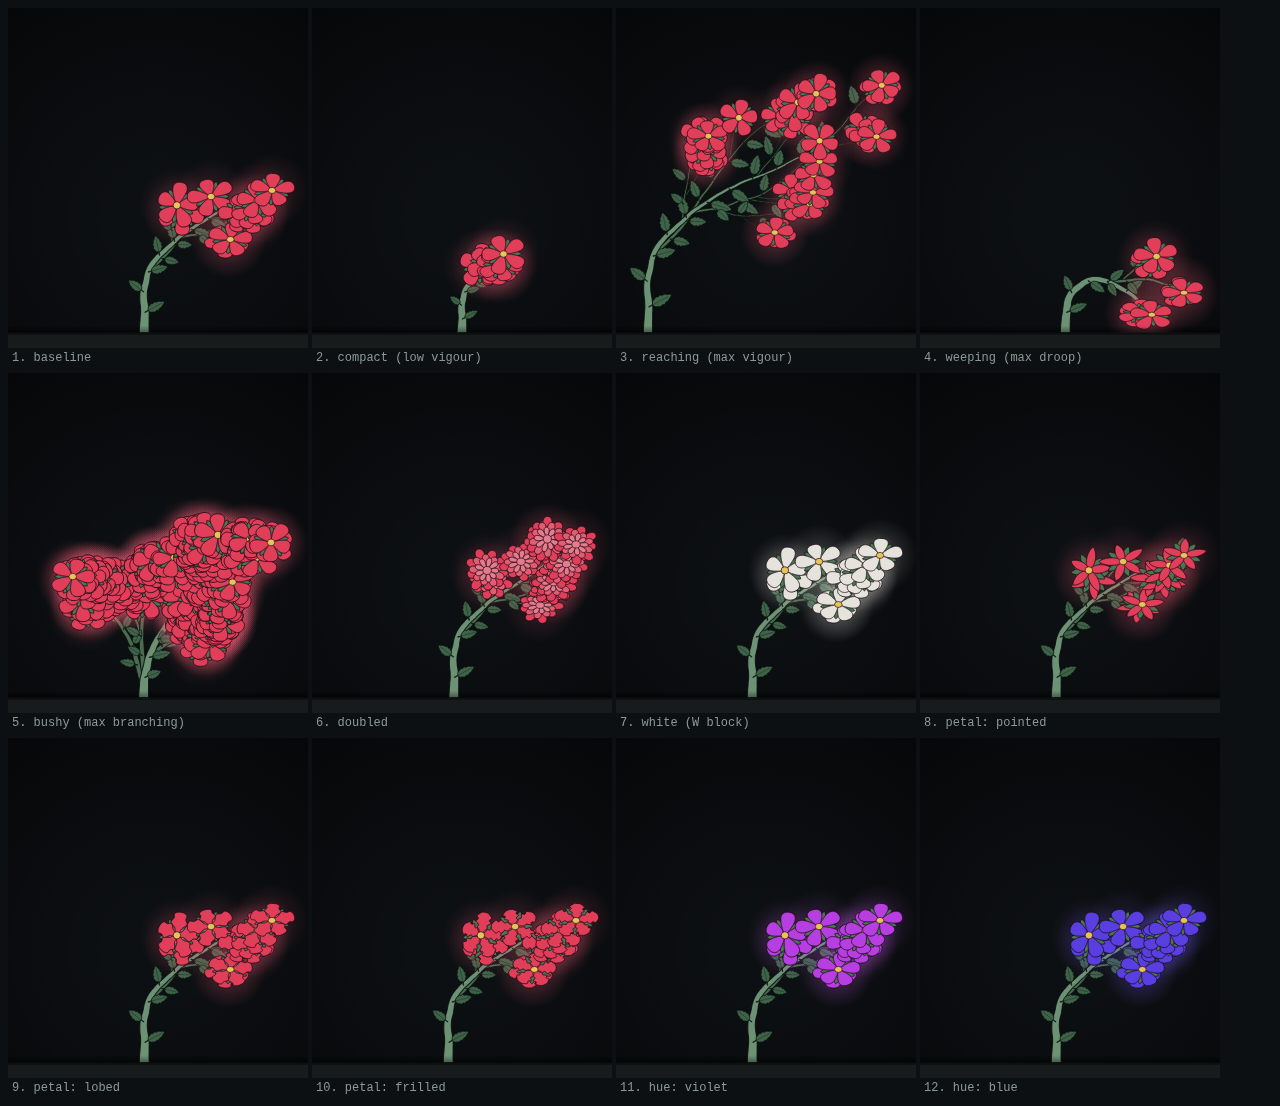
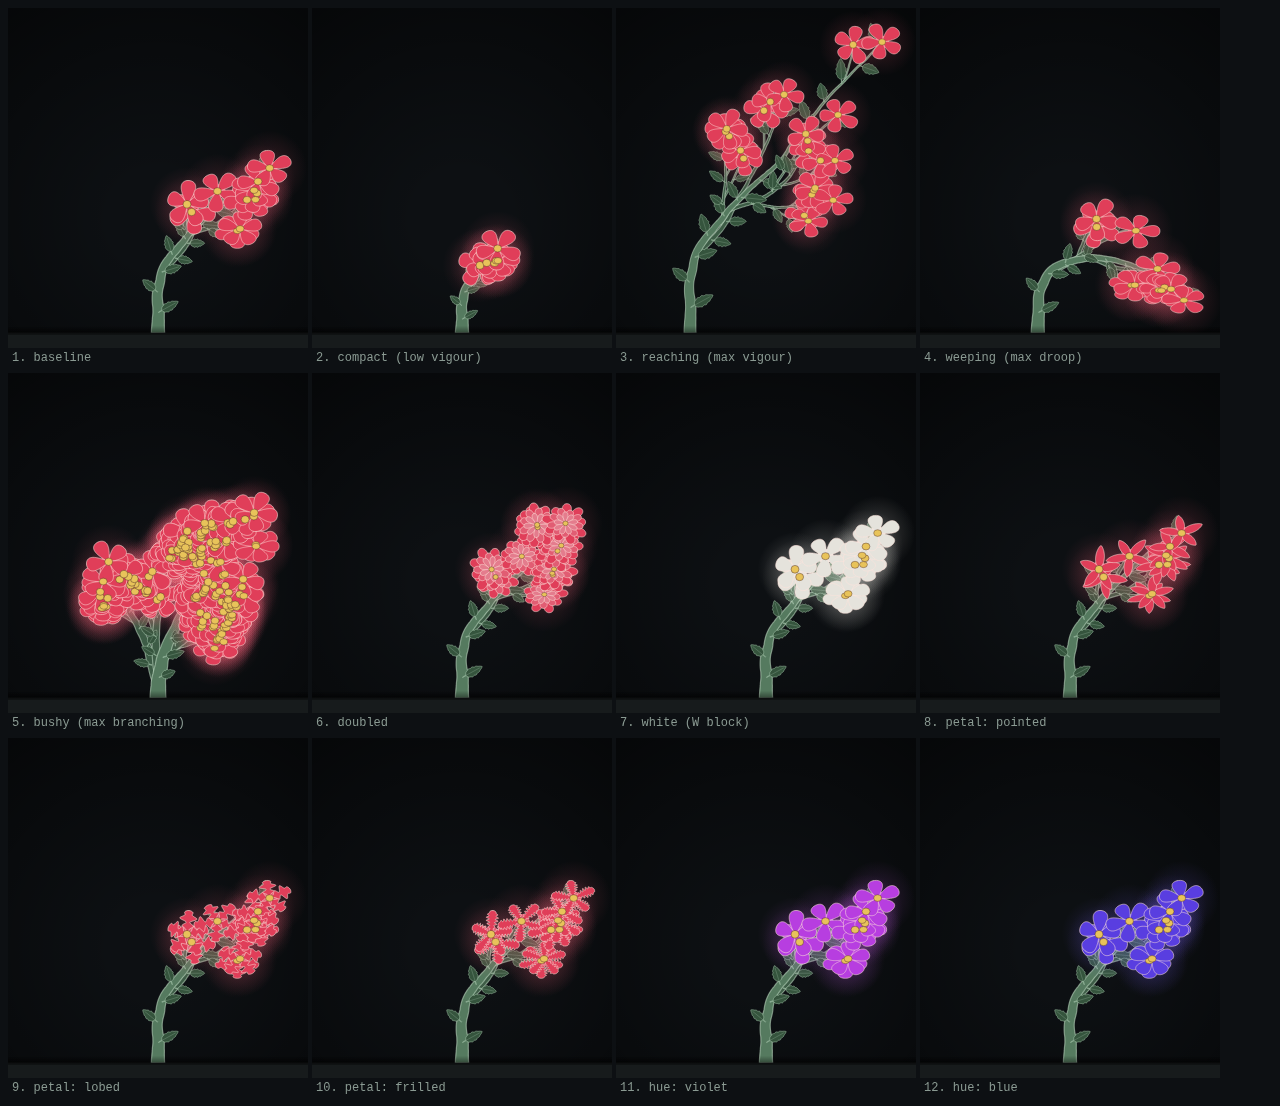
fix(render): light-rim linework — resolve the dark-ink/dark-ground contradiction
Third consecutive 0/5 verdict traced to a contradiction in the art direction
itself, not to a missing feature. "Ink line-art on a dark ground" cannot hold if
the ink is dark: the round-3 critique measured a stem scanline as
ground [12,15,17] -> fill [109,145,117] -> [24,36,28] -> ground, proving the
contour WAS rendering, at 1px, and was invisible anyway. Round 3's response had
been to make it darker and more opaque, i.e. exactly the wrong direction.

Resolution (user's call): keep the dark ground, make the line LIGHT. Line art on
a dark surface works the way chalk does. stemRim/leafRim/petalRim are now pale;
a dark line survives only for petal-on-petal divisions, where the surface behind
it is a lit petal rather than the ground. A test pins the rule: every silhouette
rim must be lighter than the ground.

Also reverted or fixed, all from measured critique findings:

- SEPALS ARE NO LONGER DRAWN. Adding a calyx to fill inter-petal gaps backfired:
  on a front-facing flower sepals are hidden in reality, so drawing them wedged
  hard green blades exactly where petal overlap should be and ENTRENCHED the
  pinwheel read it was meant to cure.
- CENTRES DRAWN IN A THIRD PASS, after every petal in the plant. Drawing each
  bloom's centre right after its own petals let the next bloom bury it — measured
  4 visible centres against ~13 bloom-sized units, so two thirds of flowers read
  as centreless petal piles.
- TRUNK CARRIES LOAD: initial width scales with branchiness (pipe-model
[…]

diff --git a/src/render/stage.ts b/src/render/stage.ts
@@ -3,19 +3,33 @@ import { buildOutline, fillOutline, groupChains, smoothChain } from "./strokes";
 import { leafMidrib, leafPath } from "./leaves";
 import { fillPetal, petalColor, petalGlow, petalPath } from "./petals";
 
+/**
+ * Silhouette lines are LIGHT, not dark.
+ *
+ * "Ink line-art on a dark ground" is self-contradictory if the ink is dark: a near-black
+ * contour on a near-black ground is invisible by construction. Measured proof from the
+ * round-3 critique — a stem scanline read ground [12,15,17] -> fill [109,145,117] ->
+ * [24,36,28] -> ground: the contour WAS rendering, at 1px, and could not be seen. Making
+ * it darker and more opaque (the round-3 attempt) moved it in exactly the wrong direction.
+ *
+ * Line art on a dark surface works the way chalk does: the line is lighter than the
+ * surface. These rim colours are what separate a silhouette from the ground.
+ */
 export const PALETTE = {
   ground: "#0d1013",
   vignette: "rgba(0,0,0,0.55)",
-  stem: "#4a6b52",
-  stemHi: "#6d9175",
-  stemInk: "rgba(8,17,12,0.85)",
+  stem: "#3d5c46",
+  stemHi: "#557a5f",
+  stemRim: "rgba(196,224,201,0.55)",
   soil: "#171b1c",
   stamen: "#e8c35a",
-  leaf: "#3f6349",
-  leafInk: "rgba(8,17,12,0.5)",
-  sepal: "#4e7355",
-  // Near-opaque and very dark: the contour has to beat a mid-lightness fill in value.
-  petalInk: "rgba(26,10,20,0.9)",
+  leaf: "#35543d",
+  leafRim: "rgba(178,212,183,0.5)",
+  leafVein: "rgba(190,220,196,0.32)",
+  petalRim: "rgba(255,228,220,0.62)",
+  // Dark line kept ONLY for divisions between overlapping petals, where the surface
+  // behind the line is a lit petal rather than the dark ground.
+  petalDivide: "rgba(48,14,26,0.55)",
 } as const;
 
 export type Bounds = { minX: number; minY: number; maxX: number; maxY: number };
@@ -164,8 +178,8 @@ export function paintPlant(
       for (let i = 1; i < outline.length; i++)
         ctx.lineTo(outline[i]!.x, outline[i]!.y);
       ctx.closePath();
-      ctx.strokeStyle = PALETTE.stemInk;
-      ctx.lineWidth = 1.1;
+      ctx.strokeStyle = PALETTE.stemRim;
+      ctx.lineWidth = 1.2;
       ctx.stroke();
     }
   }
@@ -180,15 +194,15 @@ export function paintPlant(
     ctx.closePath();
     ctx.fillStyle = PALETTE.leaf;
     ctx.fill();
-    ctx.strokeStyle = PALETTE.stemInk;
-    ctx.lineWidth = 0.9;
+    ctx.strokeStyle = PALETTE.leafRim;
+    ctx.lineWidth = 1;
     ctx.stroke();
 
     const [a, b] = leafMidrib(lf);
     ctx.beginPath();
     ctx.moveTo(a.x, a.y);
     ctx.lineTo(b.x, b.y);
-    ctx.strokeStyle = PALETTE.leafInk;
+    ctx.strokeStyle = PALETTE.leafVein;
     ctx.lineWidth = 0.7;
     ctx.stroke();
   }
@@ -217,7 +231,11 @@ export function paintPlant(
     ctx.fill();
   }
 
-  for (const b of plant.blooms) {
+  // Per-bloom foreshortening transform, shared by the petal and centre passes.
+  const withBloomTransform = (
+    b: (typeof plant.blooms)[number],
+    draw: () => void,
+  ): void => {
     ctx.save();
     // Nodding foreshortening: a bloom on a downward-pointing shoot is seen obliquely, so
     // squash it across the shoot axis. Without this every bloom faced the viewer dead-on
@@ -226,59 +244,71 @@ export function paintPlant(
     ctx.translate(b.center.x, b.center.y);
     ctx.scale(1, squash);
     ctx.translate(-b.center.x, -b.center.y);
-
-    // Calyx first — behind the corolla, showing through the gaps between petals.
-    for (const s of b.sepals) {
-      fillPetal(ctx, petalPath(s), PALETTE.sepal, PALETTE.stemInk);
-    }
-
-    // A receptacle disc behind the petals, so the middle of a bloom is never a hole in
-    // the ground. Doubled blooms previously darkened to a near-black spiral void.
-    ctx.fillStyle = petalColor(b.hueClass, b.white, 0.55);
-    ctx.beginPath();
-    ctx.arc(b.center.x, b.center.y, b.radius * 0.36, 0, Math.PI * 2);
-    ctx.fill();
-
-    for (const p of b.petals) {
-      const fill = petalColor(b.hueClass, b.white, p.colorDepth);
-      // The contour must beat the FILL in value or it vanishes. At 0.55 alpha over a
-      // mid-lightness pink it was invisible — the geometry was there, the contrast was not,
-      // which is why the white panel was the only one that read as a layered flower.
-      fillPetal(ctx, petalPath(p), fill, PALETTE.petalInk);
-    }
-
-    // Singles show a stamen boss. Doubles convert stamens to petals (ABC C-function), so
-    // they get a lit furled centre instead — biology preserved, but no black void.
-    if (b.stamens) {
-      ctx.fillStyle = PALETTE.stamen;
-      ctx.beginPath();
-      ctx.arc(
-        b.center.x,
-        b.center.y,
-        Math.max(1.6, b.radius * 0.17),
-        0,
-        Math.PI * 2,
-      );
-      ctx.fill();
-      ctx.strokeStyle = PALETTE.petalInk;
-      ctx.lineWidth = 0.8;
-      ctx.stroke();
-    } else {
-      ctx.fillStyle = petalColor(b.hueClass, b.white, 1);
-      ctx.beginPath();
-      ctx.arc(
-        b.center.x,
-        b.center.y,
-        Math.max(1.8, b.radius * 0.19),
-        0,
-        Math.PI * 2,
-      );
-      ctx.fill();
-      ctx.strokeStyle = PALETTE.petalInk;
-      ctx.lineWidth = 0.8;
-      ctx.stroke();
-    }
+    draw();
     ctx.restore();
+  };
+
+  // PASS 2 — petals for every bloom.
+  //
+  // NOTE: sepals are deliberately NOT drawn. A calyx was added here to fill the gaps
+  // between petals, and it backfired badly: on a front-facing open flower the sepals are
+  // hidden in reality, so drawing them inserted hard green wedges exactly where
+  // petal-on-petal overlap should be, which ENTRENCHED the pinwheel read it was meant to
+  // cure. Bloom.sepals is still generated for a future profile/bud view.
+  for (const b of plant.blooms) {
+    withBloomTransform(b, () => {
+      // A receptacle disc behind the petals, so the middle of a bloom is never a hole in
+      // the ground. Doubled blooms previously darkened to a near-black spiral void.
+      ctx.fillStyle = petalColor(b.hueClass, b.white, 0.55);
+      ctx.beginPath();
+      ctx.arc(b.center.x, b.center.y, b.radius * 0.36, 0, Math.PI * 2);
+      ctx.fill();
+
+      for (const p of b.petals) {
+        const fill = petalColor(b.hueClass, b.white, p.colorDepth);
+        // LIGHT rim, not dark ink — see the PALETTE comment. A dark contour on a dark
+        // ground rendered correctly and was still invisible.
+        fillPetal(ctx, petalPath(p), fill, PALETTE.petalRim);
+      }
+    });
+  }
+
+  // PASS 3 — centres, AFTER every petal in the plant.
+  //
+  // Drawing each bloom's centre immediately after its own petals meant the NEXT bloom's
+  // petals buried it: measured 4 visible centres against ~13 bloom-sized units, so two
+  // thirds of the flowers read as centreless petal piles.
+  for (const b of plant.blooms) {
+    withBloomTransform(b, () => {
+      if (b.stamens) {
+        ctx.fillStyle = PALETTE.stamen;
+        ctx.beginPath();
+        ctx.arc(
+          b.center.x,
+          b.center.y,
+          Math.max(1.8, b.radius * 0.18),
+          0,
+          Math.PI * 2,
+        );
+        ctx.fill();
+      } else {
+        // Doubles convert stamens to petals (ABC C-function), so no stamen boss — but the
+        // furled centre still catches light, and it keeps the yellow eye language.
+        ctx.fillStyle = PALETTE.stamen;
+        ctx.beginPath();
+        ctx.arc(
+          b.center.x,
+          b.center.y,
+          Math.max(1.4, b.radius * 0.12),
+          0,
+          Math.PI * 2,
+        );
+        ctx.fill();
+      }
+      ctx.strokeStyle = PALETTE.petalDivide;
+      ctx.lineWidth = 0.7;
+      ctx.stroke();
+    });
   }
   ctx.restore();
 }

diff --git a/src/render/petals.ts b/src/render/petals.ts
@@ -29,12 +29,15 @@ function rawProfile(shape: PetalShape, t: number): number {
     // disconnected lumps in a ring. Frequencies are also low enough to stay resolvable at
     // the sample count used by petalPath — undersampling a periodic margin is what turned
     // these outlines into axis-aligned stair-steps.
+    // Amplitudes are LARGE on purpose. At 0.26/0.20 these two alleles changed total petal
+    // area by 0.5% and 2.3% against baseline and were invisible at the size the game
+    // actually renders — measured, not guessed. A gene the player cannot see is not a gene.
     case "lobed":
-      // Two broad scallops per margin.
-      return b * (1 + 0.26 * Math.cos(4 * Math.PI * t) * Math.sin(Math.PI * t));
+      // Deep scallops: three big rounded lobes down each margin.
+      return b * (1 + 0.62 * Math.cos(6 * Math.PI * t) * Math.sin(Math.PI * t));
     case "frilled":
-      // A ruffled margin: more, shallower undulations.
-      return b * (1 + 0.2 * Math.sin(8 * Math.PI * t) * Math.sin(Math.PI * t));
+      // Many shallower, tighter ruffles — a different rhythm from lobed, not a milder one.
+      return b * (1 + 0.4 * Math.sin(15 * Math.PI * t) * Math.sin(Math.PI * t));
   }
 }
 
@@ -62,8 +65,14 @@ function halfWidth(shape: PetalShape, t: number): number {
 const SHAPE_WIDTH: Record<PetalShape, number> = {
   round: 1.0,
   pointed: 0.6,
-  lobed: 1.12,
-  frilled: 1.04,
+  // Lobed and frilled were 1.12 / 1.04 — near-identical proportions, so the two alleles
+  // differed only in margin rhythm and measured within 5.6% of each other in area. Broad
+  // scalloped versus narrow ruffled separates them by silhouette, not just by texture.
+  // Widening lobed past ~1.2 drops its aspect below the anti-square floor of 1.25, which
+  // is the constraint that prevents the pinwheel regression — so the separation between
+  // these two alleles is carried mostly by narrowing frilled instead.
+  lobed: 1.18,
+  frilled: 0.85,
 };
 
 /** Symmetric petal outline, rotated by spec.angle and translated to spec.center. */

diff --git a/src/growth/sim.ts b/src/growth/sim.ts
@@ -35,7 +35,10 @@ export function growPlant(pheno: Phenotype, seed: number, origin: Vec2): Plant {
       id: nextId++,
       pos: { ...origin },
       dir: UP,
-      width: pheno.baseWidth,
+      // A branchier plant carries more canopy, so its trunk is thicker (pipe-model
+      // reasoning). Without this, the max-branching plant grew 3.2x the flower mass on a
+      // trunk THINNER than baseline's and read as "a pink cloud balanced on a stick".
+      width: pheno.baseWidth * (1 + 0.6 * pheno.branchiness),
       age: 0,
       depth: 0,
       vigourLeft: maxTicks,
@@ -60,9 +63,13 @@ export function growPlant(pheno: Phenotype, seed: number, origin: Vec2): Plant {
       //    only ~14 ticks meant a weeping plant rose barely 40 units before arching, so it
       //    flopped straight back to the ground and read as a stub. Weeping habit is a tall
       //    shoot with a pendant tip, not a short arch.
-      const droopRamp = Math.min(1, tip.age / 34);
+      //    Ramp lengthened again and the coefficient softened: at /34 and 0.09 a weeping
+      //    plant still lost 40% of its height and landed in the same size class as the
+      //    low-vigour phenotype, so droop was confounding with vigour. Droop must change
+      //    the SHAPE of the shoot, not how tall it gets.
+      const droopRamp = Math.min(1, tip.age / 52);
       const turn =
-        pheno.droop * droopRamp * 0.09 * angleDelta(tip.dir, DOWN) +
+        pheno.droop * droopRamp * 0.062 * angleDelta(tip.dir, DOWN) +
         pheno.phototropism * 0.05 * angleDelta(tip.dir, UP) +
         (rand() - 0.5) * 0.25;
       tip.dir += turn * (1 - pheno.stiffness * 0.7);

diff --git a/test/stage.test.ts b/test/stage.test.ts
@@ -42,6 +42,35 @@ describe("visibleSegments", () => {
   });
 });
 
+describe("silhouette rim colours", () => {
+  // Three consecutive critic rounds failed the art direction on "no visible linework".
+  // The contours were rendering the whole time; they were DARK on a near-black ground and
+  // therefore invisible. This pins the corrected rule: a rim that separates a silhouette
+  // from the ground must be LIGHTER than the ground.
+  const lum = (css: string): number => {
+    const m = /rgba?\((\d+),\s*(\d+),\s*(\d+)/.exec(css);
+    if (m) return (Number(m[1]) + Number(m[2]) + Number(m[3])) / 3;
+    const hex = css.replace("#", "");
+    return (
+      [0, 2, 4]
+        .map((i) => parseInt(hex.slice(i, i + 2), 16))
+        .reduce((a, b) => a + b) / 3
+    );
+  };
+
+  it("keeps every silhouette rim lighter than the ground", () => {
+    const ground = lum(PALETTE.ground);
+    for (const rim of [PALETTE.stemRim, PALETTE.leafRim, PALETTE.petalRim]) {
+      expect(lum(rim)).toBeGreaterThan(ground + 60);
+    }
+  });
+
+  it("still allows a DARK line for petal-on-petal divisions", () => {
+    // Those sit on a lit petal, not on the ground, so dark is correct there.
+    expect(lum(PALETTE.petalDivide)).toBeLessThan(lum(PALETTE.ground) + 60);
+  });
+});
+
 describe("plantBounds", () => {
   it("includes each bloom's full radius, not just its centre", () => {
     const plant = growPlant(P, 4, { x: 0, y: 0 });

diff --git a/test/petals.test.ts b/test/petals.test.ts
@@ -71,6 +71,31 @@ describe("petalPath", () => {
     expect(nearTip("pointed")).toBeLessThan(nearTip("round"));
   });
 
+  it("changes petal AREA enough per allele to be visible at render scale", () => {
+    // Measured failure this guards: lobed and frilled changed total petal area by 0.5% and
+    // 2.3% against baseline, so both were invisible at the size the game renders and only
+    // resolved above 5x zoom. A gene the player cannot see is not a gene.
+    const area = (s: PetalShape): number => {
+      const pts = petalPath(spec(s));
+      let a = 0;
+      for (let i = 0; i < pts.length; i++) {
+        const p = pts[i]!;
+        const q = pts[(i + 1) % pts.length]!;
+        a += p.x * q.y - q.x * p.y;
+      }
+      return Math.abs(a) / 2;
+    };
+    const base = area("round");
+    for (const s of ["pointed", "lobed", "frilled"] as PetalShape[]) {
+      const delta = Math.abs(area(s) - base) / base;
+      expect(delta).toBeGreaterThan(0.08);
+    }
+    // And lobed must differ from frilled, or shipping both is pointless.
+    expect(Math.abs(area("lobed") - area("frilled")) / base).toBeGreaterThan(
+      0.06,
+    );
+  });
+
   it("makes the four shape alleles geometrically distinct", () => {
     // The P locus is only meaningful if its alleles actually look different.
     const sigs = ALL.map((s) =>
